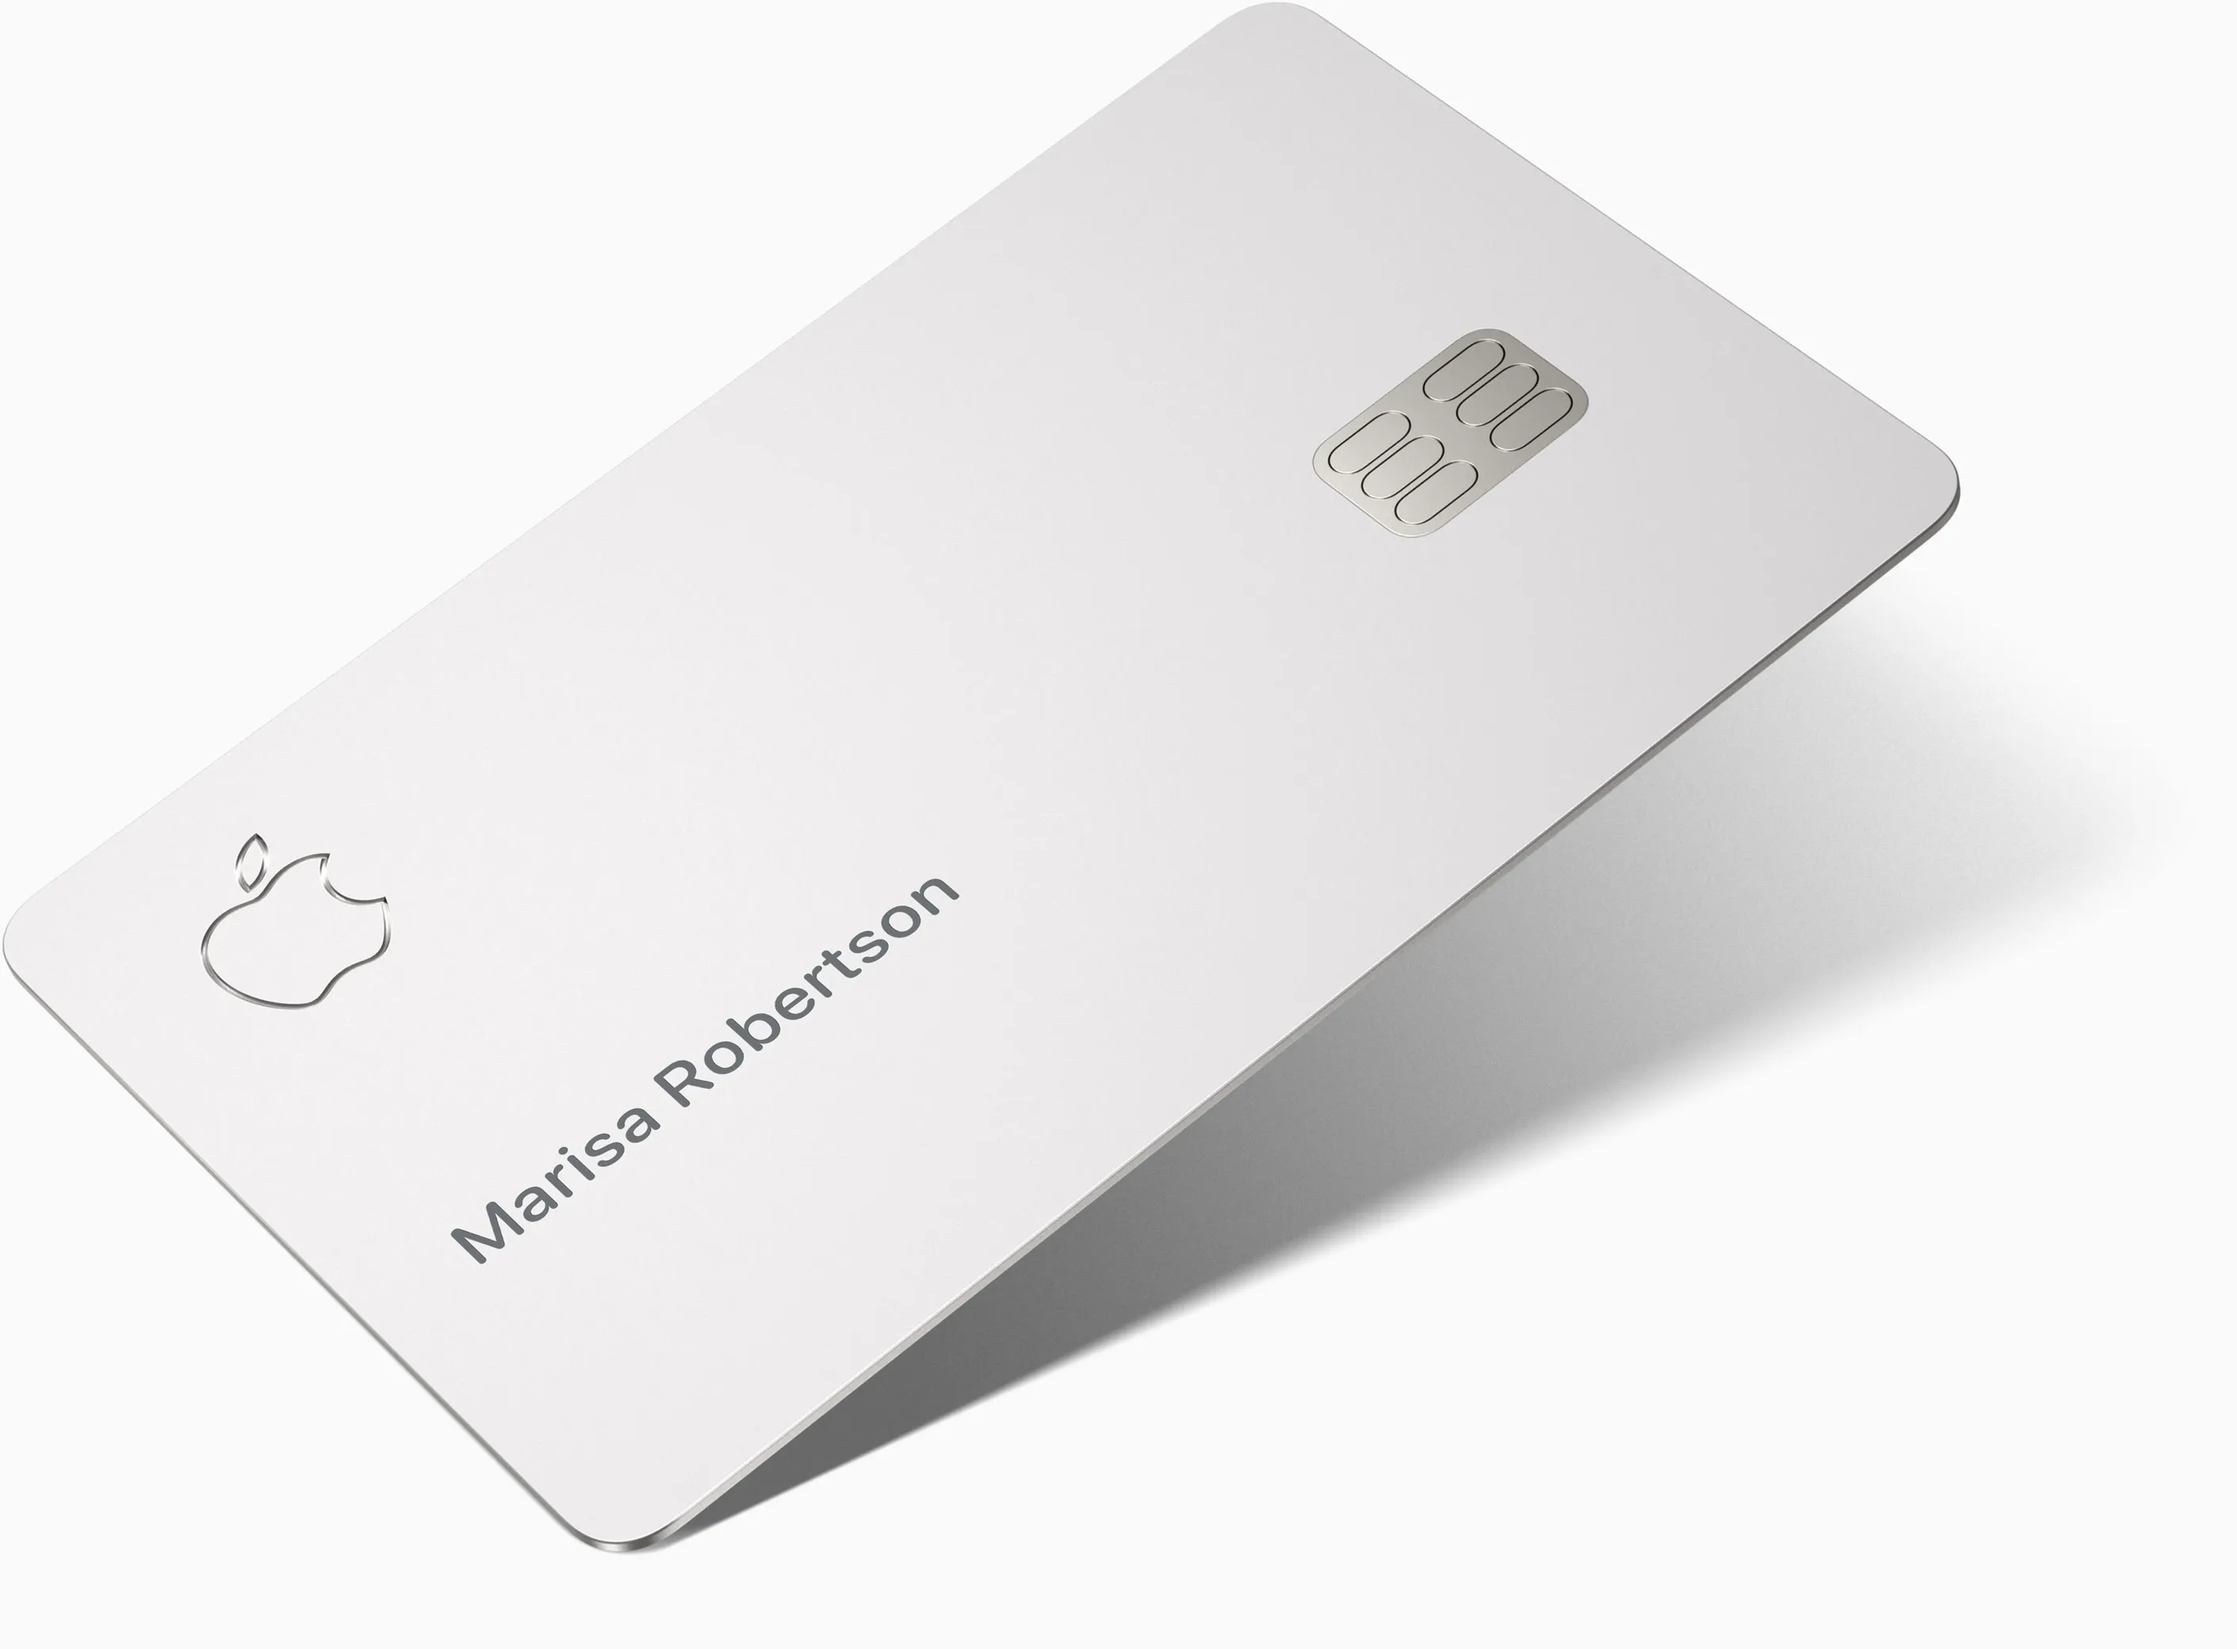
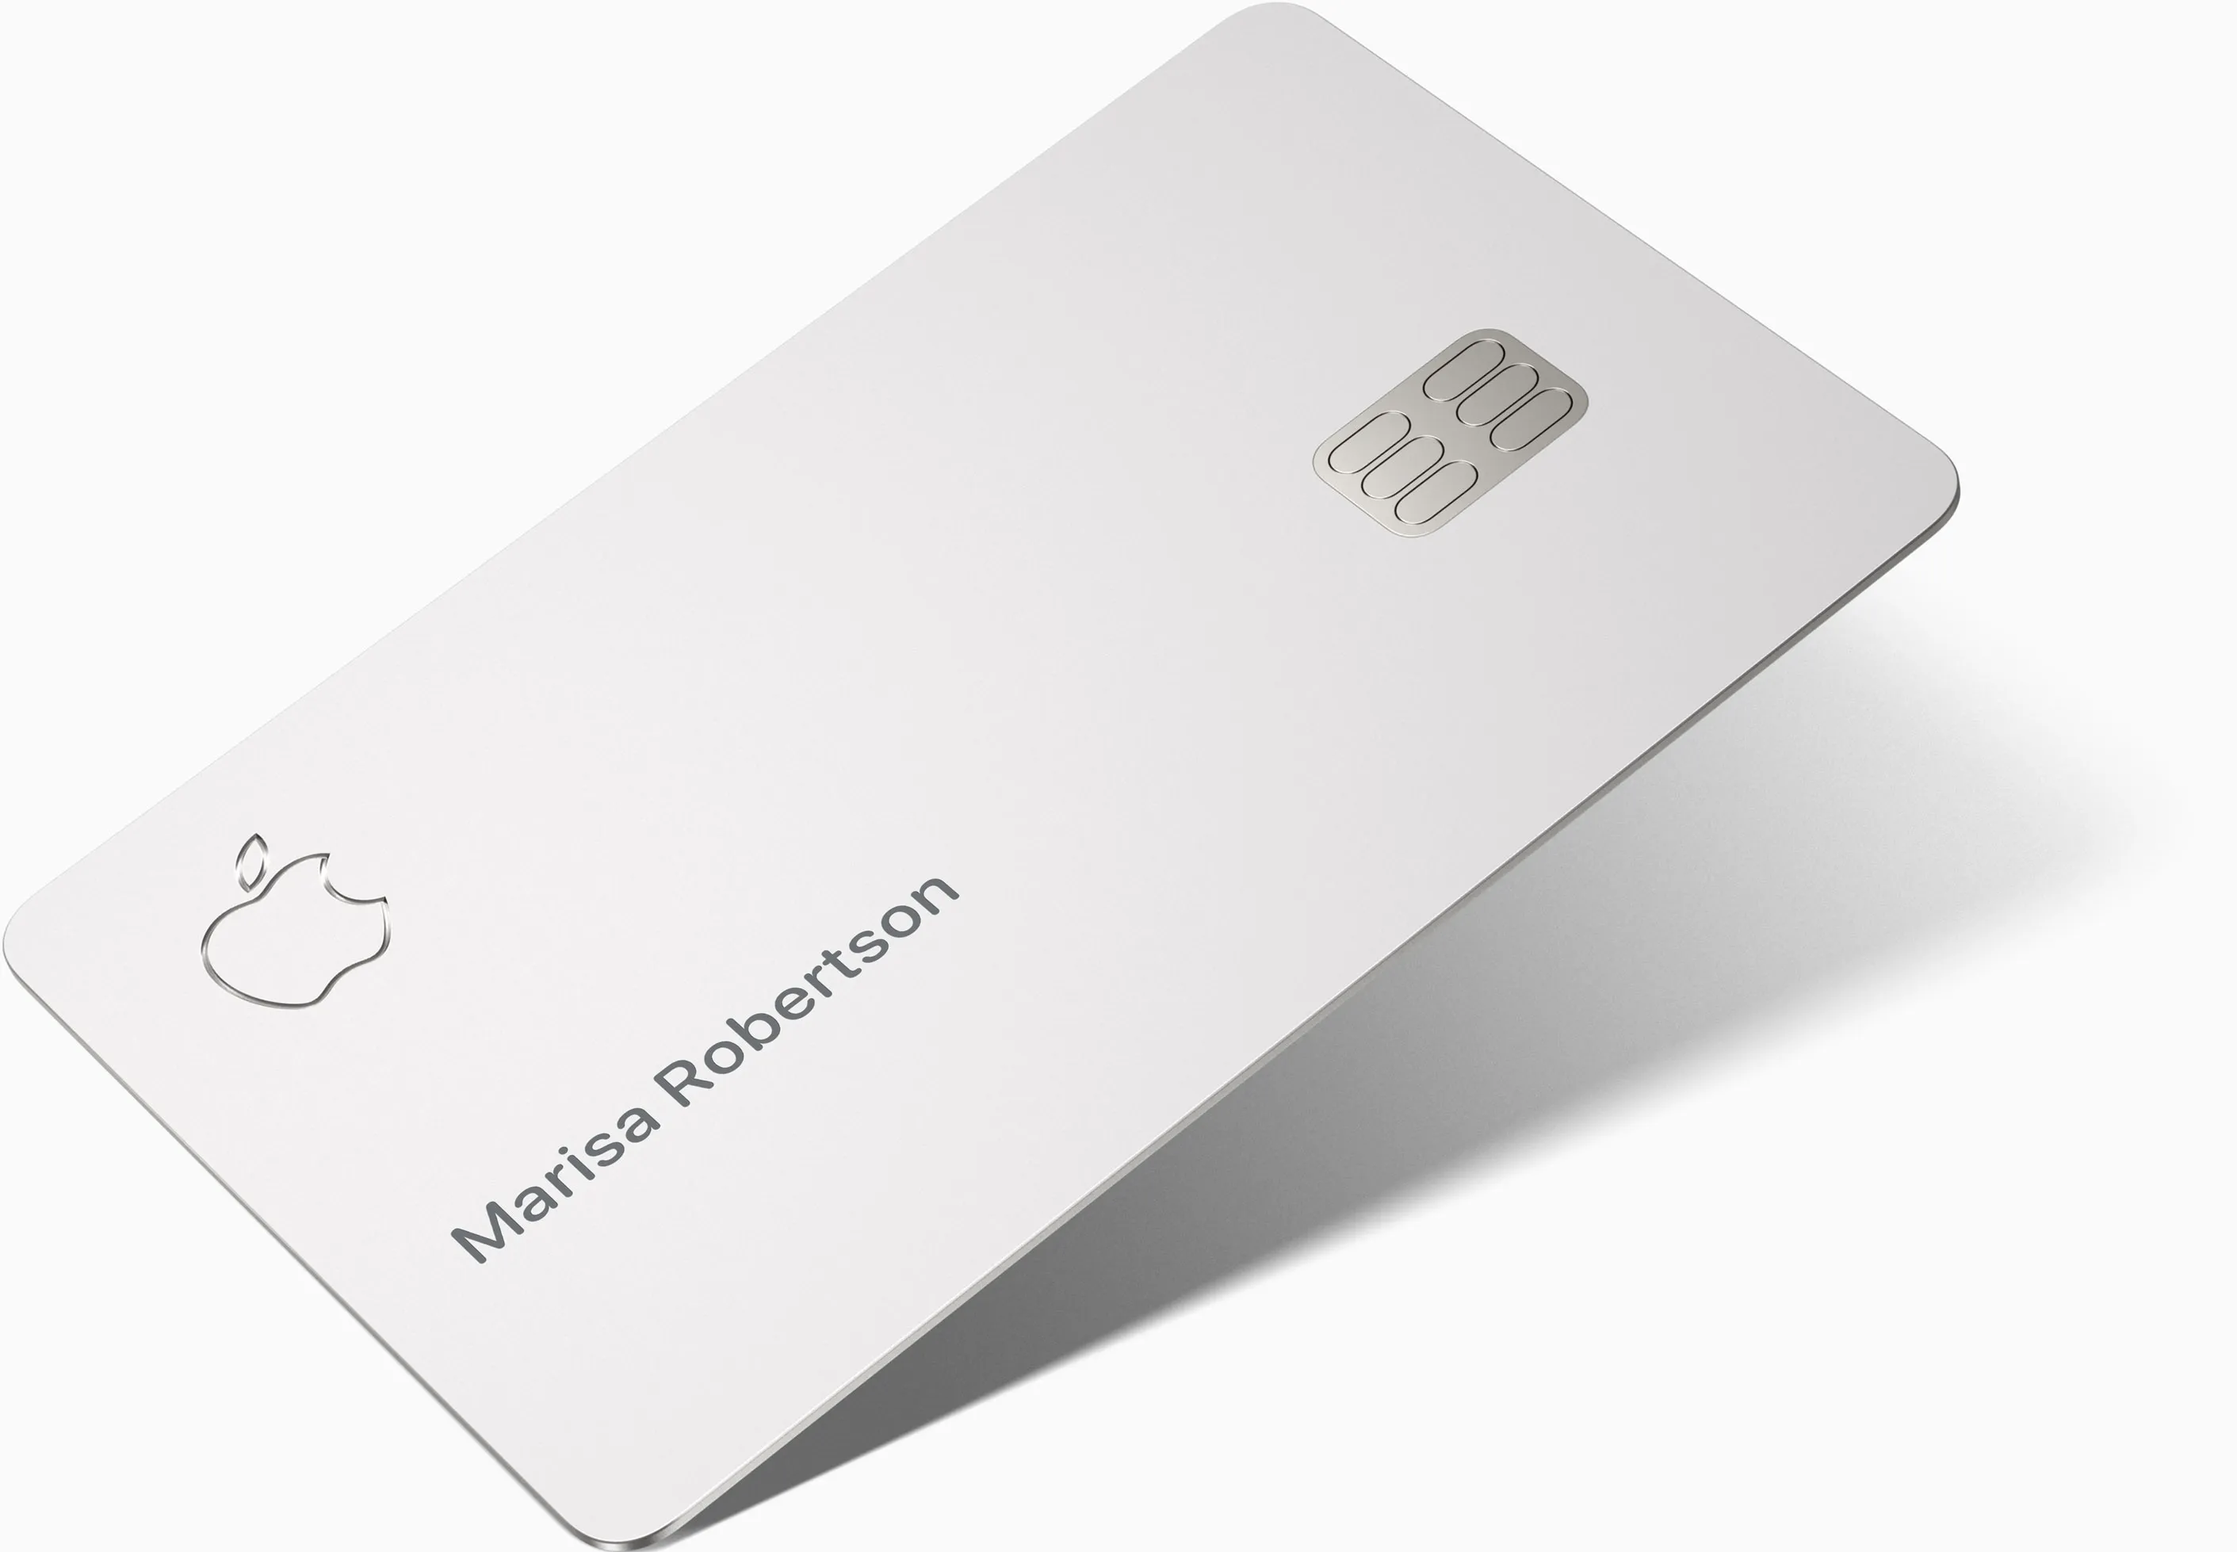
quick changes

diff --git a/src/index.html b/src/index.html
@@ -92,13 +92,13 @@
             </div>
             <img class="w-9/12" src="img/airpods.png" alt="">
         </div>
-        <div class="row-start-3 row-end-3 flex flex-col gap-4 items-center pt-12 w-full">
+        <div class="row-start-3 row-end-3 flex flex-col gap-4 items-center pt-12 w-full bg-gray-50">
             <h2 class="text-5xl font-semibold">Trade In</h2>
             <p class="text-3xl w-2/5 text-center">Get $200-$650 in credit when you trade in iPhone 11 or higher.</p>
             <div class="flex justify-center space-x-20 text-2xl">
                 <a href="#" class="text-[#0066CC] hover:underline">See what your device is worth</a>
             </div>
-            <img class="" src="img/tradein.png" alt="">
+            <img class="w-full" src="img/tradein.png" alt="">
         </div>
         <div class="row-start-3 row-end-3 flex flex-col gap-4 items-center w-full pt-12 bg-gray-50">
             <h2 class="text-5xl font-semibold">Card</h2>
@@ -107,7 +107,7 @@
                 <a href="#" class="text-[#0066CC] hover:underline">Learn more</a>
                 <a href="#" class="text-[#0066CC] hover:underline">Apply now</a>
             </div>
-            <img class="pt-12 w-3/6" src="img/card.png" alt="">
+            <img class="pt-12 w-5/12" src="img/card.png" alt="">
         </div>
     </section>
 </body>
